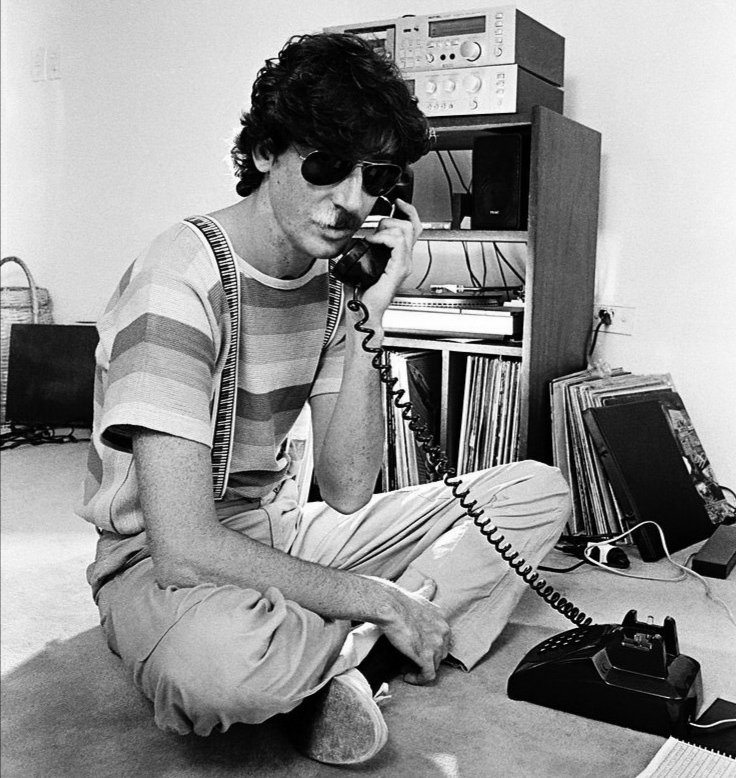
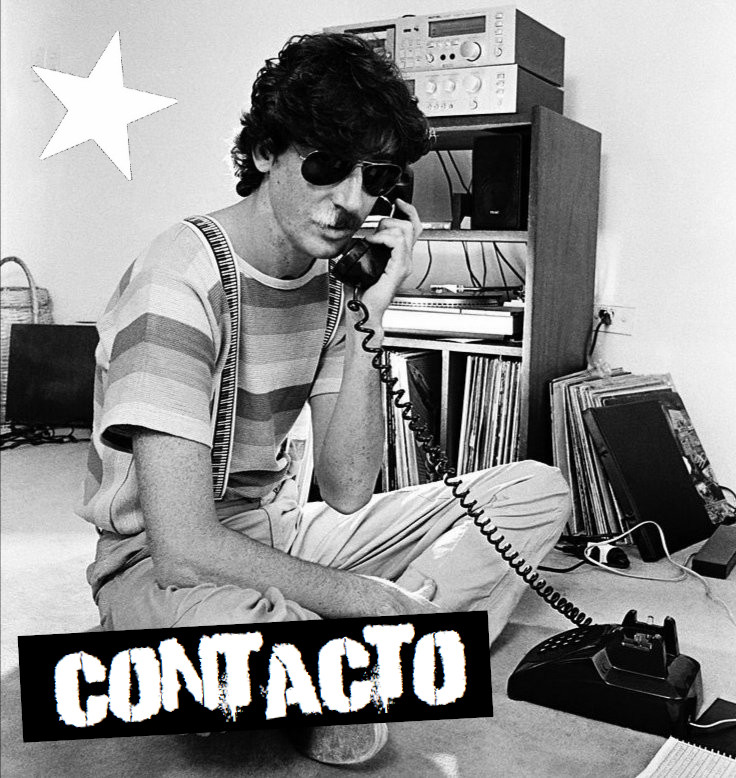
Agregado de fotos y animaciones

Changed region(s): [[0.0, 0.7712, 0.6875, 0.9563], [0.0312, 0.0308, 0.25, 0.2468]]

diff --git a/front/src/pages/carrito.jsx b/front/src/pages/carrito.jsx
@@ -1,5 +1,9 @@
 import { useEffect, useContext } from 'react';
 import { BackgroundContext } from '@/context/backgroundContext';
+import { Link } from 'react-router-dom';
+import carritoVacio from '@/assets/img/carritoVacio.jpg';
+import '@/pages/css/carrito.css'
+
 
 const Carrito = () => {
     const { setBackground } = useContext(BackgroundContext);
@@ -12,6 +16,15 @@ const Carrito = () => {
     return (
         <main>
             <h1 className="pagina-titulo text-white text-center">Carrito</h1>
+            <section className='carritoVacio-section aparecer container mt-4 mb-5 d-flex flex-column align-items-center'>
+                <h4 className='text-center'>Todavía no hay ítems en tu carrito</h4>
+                <div className='d-flex justify-content-center mb-4 mt-2'>
+                    <div className='carritoVacio-fotoDiv'>
+                        <img className='w-100' src={carritoVacio} alt="Intoxicados en Tilcara" />
+                    </div>
+                </div>
+                <h4 className='text-center'>¡Te esperamos en la sección <Link to='/verTodo' className='carritoVacio-link'>productos</Link>!</h4>
+            </section>
         </main>
     );
 };

diff --git a/front/src/pages/nosotros.jsx b/front/src/pages/nosotros.jsx
@@ -14,8 +14,8 @@ const Nosotros = () => {
     return (
         <main>
             <h1 className="pagina-titulo text-white text-center">Sobre nosotros</h1>
-            <section className='nosotros-section container mt-4 mb-5 d-flex flex-column align-items-center'>
-                <p>La Nave es un espacio que celebra nuestra identidad. Nació del amor por los artistas que hicieron del rock nacional una forma de vida, y que siguen marcando generaciones con su música.
+            <section className='nosotros-section aparecer container mt-4 mb-5 d-flex flex-column align-items-center'>
+                <p className='nosotros-texto'>La Nave es un espacio que celebra nuestra identidad. Nació del amor por los artistas que hicieron del rock nacional una forma de vida, y que siguen marcando generaciones con su música.
                 <br /><br />
                     Desde acá queremos rendir homenaje a quienes, entre poesía y guitarras, nos enseñaron a sentir orgullo por lo que somos. Porque el rock argentino nos representa.
                 </p>

diff --git a/front/src/pages/contacto.jsx b/front/src/pages/contacto.jsx
@@ -31,7 +31,7 @@ const Contacto = () => {
     return (
         <main>
             <h1 className="pagina-titulo text-white text-center">Dejanos tu mensaje</h1>
-            <div className='contacto-div row mt-4 mb-5'>
+            <div className='contacto-div aparecer row mt-4 mb-5'>
                 <div className='col-6 p-0 d-none d-md-block'>
                     <img className='contacto-foto' src={contactoImagen} alt="Charly hablando por teléfono" />
                 </div>

diff --git a/front/src/pages/principal.jsx b/front/src/pages/principal.jsx
@@ -22,7 +22,7 @@ const Principal = () => {
                 <p className="text-end mt-0 pt-0 pe-3"><b>REMERAS - BUZOS - MOCHILAS</b></p>
             </section>
             
-            <section className="tarjetas d-flex flex-wrap justify-content-center pt-0 pt-sm-5 pb-5">
+            <section className="tarjetas aparecer d-flex flex-wrap justify-content-center pt-0 pt-sm-5 pb-5">
                 <Tarjeta />
                 <Tarjeta />
                 <Tarjeta />

diff --git a/front/src/pages/css/carrito.css b/front/src/pages/css/carrito.css
@@ -1,0 +1,23 @@
+
+.carritoVacio-section {
+    text-shadow: rgba(0, 0, 0, 0.5) 1.95px 1.95px 2.6px;
+    max-width: 800px;
+    color: white;
+}
+
+.carritoVacio-fotoDiv {
+    border-radius: 12px;
+    overflow: hidden;
+    width: 60%;
+    aspect-ratio: 767/512;
+    min-width: 280px;
+    box-shadow: rgba(0, 0, 0, 0.5) 2px 5px 15px;
+}
+
+.carritoVacio-link {
+    color: white;
+}
+
+.carritoVacio-link:hover {
+    text-shadow: 1px 1px #FEC224;
+}

diff --git a/front/src/pages/css/pages.css b/front/src/pages/css/pages.css
@@ -38,6 +38,7 @@ main {
     display: flex;
     flex-direction: column;
     align-items: center;
+    justify-content: center;
 }
 
 .layout-main {
@@ -46,4 +47,13 @@ main {
 
 .pagina-titulo {
     text-shadow: rgba(0, 0, 0, 0.5) 1.95px 1.95px 2.6px;
+}
+
+@keyframes aparecer {
+    0% {opacity: 0; transform: translateY(20px);}
+    100% {opacity: 1; transform: translateY(0);}
+}
+
+.aparecer {
+    animation: aparecer 0.8s ease-out;
 }

diff --git a/front/src/pages/css/nosotros.css b/front/src/pages/css/nosotros.css
@@ -1,12 +1,20 @@
+
 .nosotros-section {
     max-width: 800px;
     color: white;
+    text-shadow: rgba(0, 0, 0, 0.5) 1.95px 1.95px 2.6px;
+}
+
+.nosotros-texto {
+    font-size: 1em;
+    font-weight: 500;
 }
 
 .nosotros-fotoDiv {
     border-radius: 12px;
     overflow: hidden;
-    width: 75%;
+    width: 65%;
+    aspect-ratio: 821/539;
     min-width: 290px;
     box-shadow: rgba(0, 0, 0, 0.5) 2px 5px 15px;
 }
